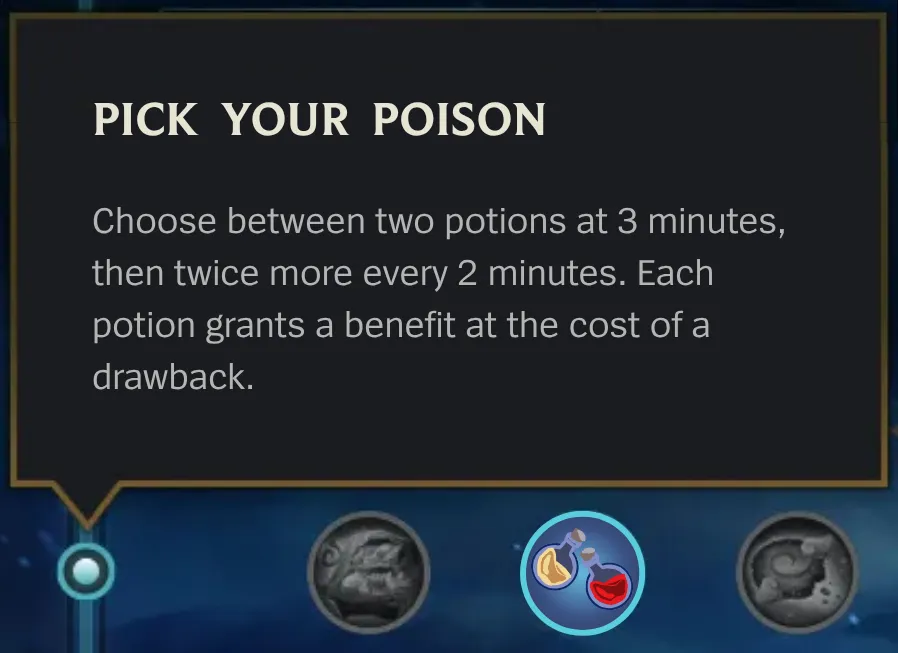
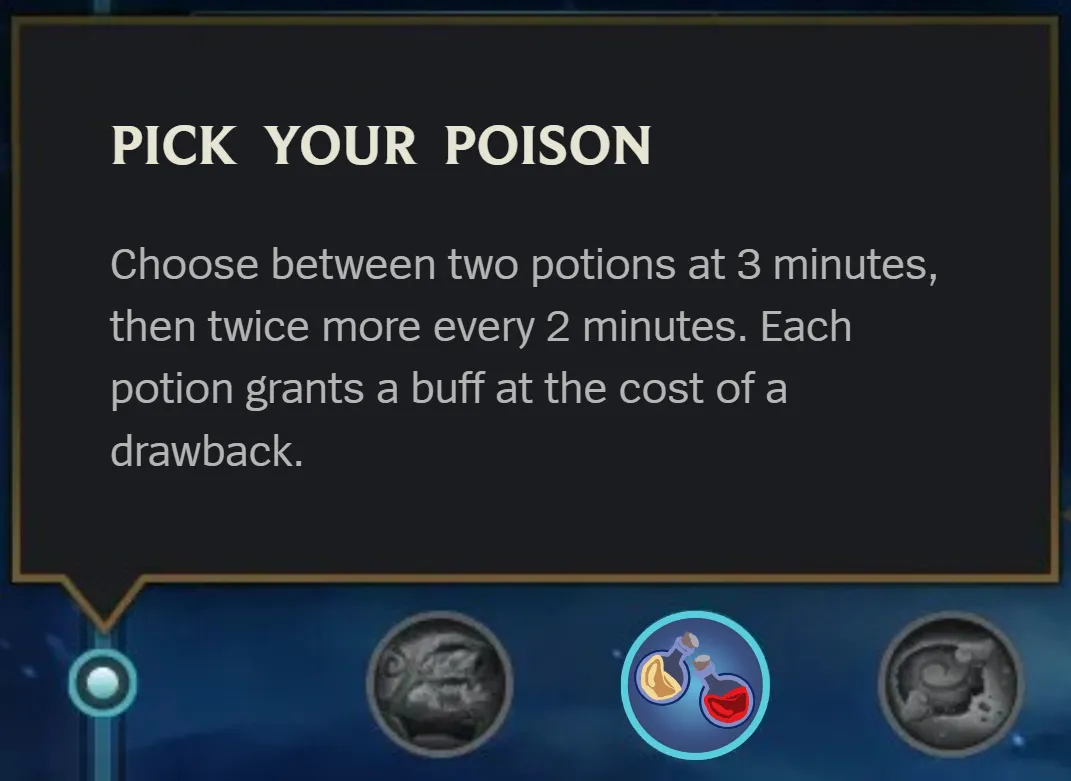
benefit -> buff. Also calling it a trade-off system

diff --git a/skills/pick-your-poison/index.html b/skills/pick-your-poison/index.html
@@ -39,7 +39,7 @@
                 <li>I want to keep this rune entirely early game focused, because it's pretty difficult to design consumables for the mid to late game as inventory space is limited.</li>
                 <li>I want this rune to have a high skill ceiling, as I find high skill ceiling runes to often result in fun and interesting gameplay.</li>
                 <li>This rune exists in the "Inspiration" tree, which is mostly defined by creativity and unique tools. I want to make a rune that fits this theme by warping an already established system, similar to other runes in this tree like Hextech Flashtraption or Unsealed Spellbook.</li>
-                <li>I want this rune's player choice to come in the form of a benefit/drawback system. I find such systems underrepresented in League, but I know that they can work, as Magical Footwear is a fairly respected rune in the same tree which denies players from buying their boots early.</li>
+                <li>I want this rune's player choice to come in the form of a trade-off system. I find such systems underrepresented in League, but I know that they can work, as Magical Footwear is a fairly respected rune in the same tree which denies players from buying their boots early.</li>
             </ul>
 
             <p>Using these goals & constraints, I designed:</p>
@@ -48,7 +48,7 @@
             <h1>Pick Your Poison</h1>
             <h2>Description:</h2>
             <p>
-                "Choose between two potions at 3 minutes, then twice more every 2 minutes. Each potion grants a benefit at the cost of a drawback."
+                "Choose between two potions at 3 minutes, then twice more every 2 minutes. Each potion grants a buff at the cost of a drawback."
             </p>
 
             <h2>Functionality:</h2>
@@ -56,7 +56,7 @@
             <p>> When picking this rune, the player would receive a choice between two potions at minute 3. The two available potions temporarily occupy alternating inventory slots, making them the only usable item actives until the player drinks or sells one.</p>
             <p>> The player then chooses whether they want to drink potion 1, drink potion 2, or sell the choice for 5g. Performing any of these actions will immediately return the player's access to their inventory.</p>
             <p>
-                > Each potion provides a benefit and a drawback, meaning the player has to adapt their choice based on 
+                > Each potion provides a buff and a drawback, meaning the player has to adapt their choice based on 
                 their current situation to get the most value out of this rune.
             </p>
             <p>> After picking a potion, the player receives another potion choice two minutes later. And after choosing from that pair, they receive one final choice two minutes after that.</p>
@@ -114,7 +114,7 @@
                     </ul>
                 </li>
                 <li>
-                    I wanted something that can be played around, no matter if it's you or the enemy that's using it. Each 30s timer allows for a window of opportunity to abuse the potion's drawback or respect the potion's benefit. But the player drinking the potions will of course always be able to drink it more favourably.
+                    I wanted something that can be played around, no matter if it's you or the enemy that's using it. Each 30s timer allows for a window of opportunity to abuse the potion's drawback or respect the potion's buff. But the player drinking the potions will of course always be able to drink it more favourably.
                 </li>
                 <li>I decided on three sets of potions. Not only because receiving more choices can make something more fun and engaging, but also because it would match the other runes in the same row, which both provide three consumables.</li>
                 <li>I gave the player 30s to make each decision so that players sitting in base would have a respectable timer to use the potion when they can actually benefit from it.
